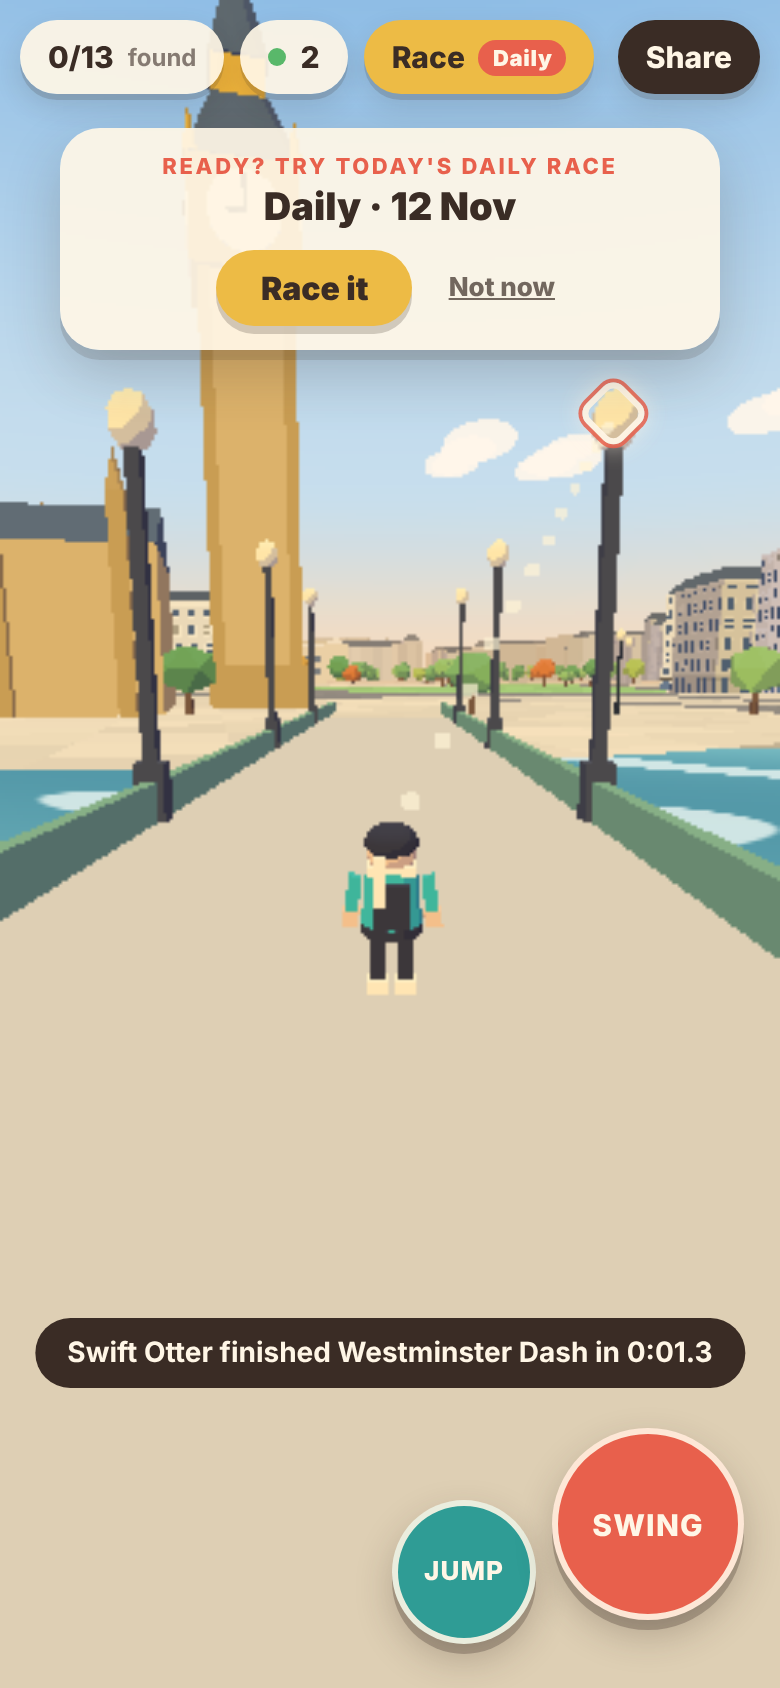
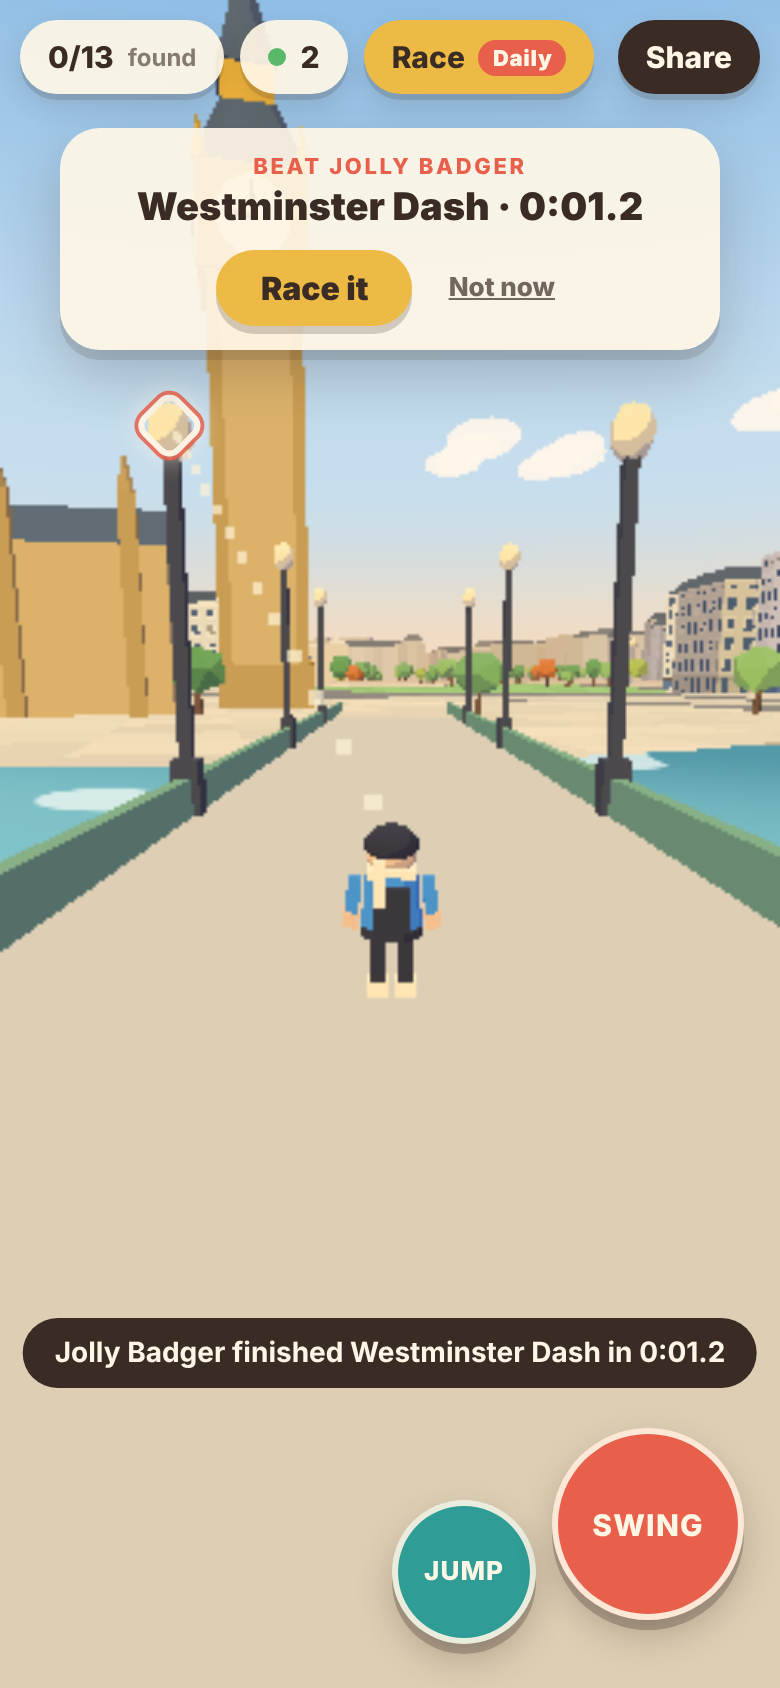
Multiplayer: a friend's race result offers the same route in one tap
Claude-Session: https://claude.ai/code/session_01Fz3Rh1tVJ5Z9fFevj4TSXJ

diff --git a/e2e/game.spec.ts b/e2e/game.spec.ts
@@ -208,6 +208,10 @@ test('multiplayer: two browsers on the same room link see each other move', asyn
 
   // A races; when A finishes, B is told A's time.
   if (await a.locator('#tut-skip').isVisible()) await a.locator('#tut-skip').tap();
+  // B is idle (no tutorial, no other offer up), so B will be offered A's route
+  if (await b.locator('#tut-skip').isVisible()) await b.locator('#tut-skip').tap();
+  if (await b.locator('#next-up').isVisible()) await b.locator('#next-no').tap();
+  await expect(b.locator('#next-up')).toBeHidden();
   await a.locator('#race-btn').tap();
   await a.locator('#routes button', { hasText: 'Westminster Dash' }).tap();
   await expect.poll(async () => (await a.evaluate(() => window.__citywalk.race)).state, { timeout: 10_000 }).toBe('running');
@@ -219,8 +223,17 @@ test('multiplayer: two browsers on the same room link see each other move', asyn
   await expect.poll(async () => (await b.evaluate(() => window.__citywalk.roomResults)).length, { timeout: 5000 }).toBe(1);
   expect((await b.evaluate(() => window.__citywalk.roomResults))[0]).toMatch(/ finished Westminster Dash in \d+:\d\d\.\d$/);
   await expect(b.locator('#toast')).toContainText('finished Westminster Dash');
+  // ...and offered the same route in one tap ("Race it"); A, who finished, gets no such offer
+  await expect(b.locator('#next-up')).toBeVisible();
+  await expect(b.locator('#next-kicker')).toContainText('Beat ');
+  await expect(b.locator('#next-route')).toContainText(/Westminster Dash · \d+:\d\d\.\d/);
   await b.screenshot({ path: 'screenshots/multiplayer-result-b.png' });
   expect(await a.evaluate(() => window.__citywalk.roomResults)).toEqual([]); // your own finish is not echoed back
+  await expect(a.locator('#next-up')).toBeHidden();
+  await b.locator('#next-go').tap();
+  await expect(b.locator('#next-up')).toBeHidden();
+  await expect.poll(async () => (await b.evaluate(() => window.__citywalk.race)).route, { timeout: 5000 }).toBe('westminster');
+  expect(['countdown', 'running']).toContain((await b.evaluate(() => window.__citywalk.race)).state);
 
   expect(errA).toEqual([]);
   expect(errB).toEqual([]);

diff --git a/src/main.ts b/src/main.ts
@@ -11,7 +11,7 @@ import { buildWorld } from './world/city';
 import { LANDMARKS, SPAWN, type Landmark } from './world/data';
 import { challengeFromHash, decodeChallenge, encodeChallenge, rivalLine, type Challenge } from './challenge';
 import { GhostRecorder, decodeGhost, encodeGhost, ghostPose, liveDelta, splitDelta, type Ghost, type GhostPose } from './ghost';
-import { ROUTES, Race, dailyRoute, formatTime, raceShareText, roomResultText, routeName, type Route } from './race';
+import { ROUTES, Race, dailyRoute, formatTime, raceShareText, roomResultText, routeById, type Route } from './race';
 import { WATER_Y, groundHeight } from './world/river';
 import { parsePortal, portalRules } from './portal';
 import { AimLine } from './render/aimline';
@@ -315,11 +315,14 @@ const net = new Net({
     remotes.get(peer.id)?.avatar.setName(peer.name);
   },
   onRaceResult(peer, r) {
-    const name = routeName(r.route);
-    if (!name) return;
-    const text = roomResultText(peer.name, name, r.t);
+    const route = routeById(r.route);
+    if (!route) return;
+    const text = roomResultText(peer.name, route.name, r.t);
     roomResults.push(text);
     ui.toast(text, CONFIG.net.roomResultToast * 1000);
+    // offer the same route in one tap, but never interrupt a race, the tutorial or another offer
+    if (race.active || ui.tutorialActive || ui.nextUpShowing) return;
+    ui.showNextUp(`${route.name} · ${formatTime(r.t)}`, () => startRace(route), `Beat ${peer.name}`, undefined, CONFIG.net.raceItCard);
   },
 });
 // friends' race results seen this visit (for tests)

diff --git a/tests/net.test.ts b/tests/net.test.ts
@@ -37,7 +37,7 @@ vi.mock('trystero', () => ({
 }));
 
 const { Net, isRemoteCloseLog, remoteCloseCount, parseRaceResult } = await import('../src/net');
-const { routeName, roomResultText, dailyRoute } = await import('../src/race');
+const { routeName, routeById, roomResultText, dailyRoute } = await import('../src/race');
 
 function setup() {
   const onLeave = vi.fn();
@@ -227,6 +227,15 @@ describe('Net: friends see your race results', () => {
     expect(routeName('nowhere')).toBeNull();
     expect(routeName('daily-2026-99-99')).toBeNull();
     expect(roomResultText('Sam', 'Westminster Dash', 83.4)).toBe('Sam finished Westminster Dash in 1:23.4');
+  });
+
+  it('rebuilds a friend\'s route locally so it can be raced ("Race it")', () => {
+    expect(routeById('westminster')?.name).toBe('Westminster Dash');
+    expect(routeById('daily-2026-11-11')).toEqual(dailyRoute('2026-11-11')); // same stops and start as the friend raced
+    expect(routeById('daily-2026-11-11')?.id).toBe('daily-2026-11-11');
+    expect(routeById('nowhere')).toBeNull();
+    expect(routeById('daily-2026-99-99')).toBeNull();
+    expect(routeById('daily-x')).toBeNull();
   });
 
   it('sends a finished race to the room, and passes on only valid results from a known peer', () => {

diff --git a/src/ui.ts b/src/ui.ts
@@ -384,7 +384,8 @@ export class UI {
    * `kicker` marks it as a challenge, which waits for an answer instead of hiding itself;
    * `onNo` runs if the player declines.
    */
-  showNextUp(routeName: string, onRace: () => void, kicker?: string, onNo?: () => void): void {
+  /** Offer a race. Without a kicker it is the daily suggestion and hides by itself; with one it stays until answered, unless `hideAfter` (seconds) is given. */
+  showNextUp(routeName: string, onRace: () => void, kicker?: string, onNo?: () => void, hideAfter?: number): void {
     $('next-kicker').textContent = kicker ?? 'Ready? Try today\'s daily race';
     $('next-route').textContent = routeName;
     $('next-no').onclick = () => {
@@ -397,7 +398,12 @@ export class UI {
     };
     $('next-up').hidden = false;
     clearTimeout(this.nextTimer);
-    if (!kicker) this.nextTimer = window.setTimeout(() => this.hideNextUp(), CONFIG.firstRun.suggestSeconds * 1000);
+    const secs = hideAfter ?? (kicker ? 0 : CONFIG.firstRun.suggestSeconds);
+    if (secs > 0) this.nextTimer = window.setTimeout(() => this.hideNextUp(), secs * 1000);
+  }
+
+  get nextUpShowing(): boolean {
+    return !$('next-up').hidden;
   }
 
   hideNextUp(): void {

diff --git a/src/race.ts b/src/race.ts
@@ -169,13 +169,18 @@ export function raceShareText(routeName: string, time: string, url = '', withGho
   return url ? `${text} ${url}` : text;
 }
 
-/** The display name of a route id (a fixed route, or any day's daily); null if it is not one we know. */
-export function routeName(id: string): string | null {
+/** The route with this id (a fixed route, or any day's daily, rebuilt locally); null if it is not one we know. */
+export function routeById(id: string): Route | null {
   const fixed = ROUTES.find((r) => r.id === id);
-  if (fixed) return fixed.name;
+  if (fixed) return fixed;
   const m = /^daily-(\d{4}-\d{2}-\d{2})$/.exec(id);
   if (!m || Number.isNaN(Date.parse(m[1]))) return null;
-  return dailyRoute(m[1]).name;
+  return dailyRoute(m[1]);
+}
+
+/** The display name of a route id (a fixed route, or any day's daily); null if it is not one we know. */
+export function routeName(id: string): string | null {
+  return routeById(id)?.name ?? null;
 }
 
 /** The toast shown when a friend in your room finishes a race. */

diff --git a/src/config.ts b/src/config.ts
@@ -147,6 +147,7 @@ export const CONFIG = {
     maxPlayers: 8,
     maxRaceSeconds: 3600, // race results from friends outside (0, this) are ignored
     roomResultToast: 3.5, // seconds a friend's race result stays on screen
+    raceItCard: 8, // seconds the "Race it" card for a friend's route stays up (only shown when you are not racing)
     helloTimeout: 12, // seconds a joined peer may stay silent before its connection is reset (the library's own handshake gives up at 10)
   },
 

diff --git a/DAILY_PROGRESS.md b/DAILY_PROGRESS.md
@@ -2,6 +2,34 @@
 
 Verified work only. Newest first.
 
+## 2026-11-13
+
+**Implemented**
+- "Race it" for a friend's result: when someone in your room finishes a race and you are not
+  racing, in the tutorial or already looking at another offer, a card appears ("Beat Jolly Badger
+  · Westminster Dash · 0:01.2") with Race it / Not now; Race it starts that route at its start
+  line. It hides itself after 8 s (`CONFIG.net.raceItCard`). The result toast is unchanged, and
+  mid-race you get only the toast. The route is rebuilt locally from its id (a fixed route, or any
+  day's daily), so a peer still cannot put its own text or route on your screen.
+- Second slice of the "multiplayer race" item; chosen because the rest of Now waits on the owner.
+
+**Verified**
+- Build: 0 TS errors. Unit: 92 passed (1 new in `tests/net.test.ts`: routes rebuilt by id, unknown
+  or malformed ids refused). Browser: the two-player test now checks B gets the card after A
+  finishes, A does not, and B's tap starts Westminster Dash (screenshot
+  `screenshots/multiplayer-result-b.png`).
+- Full browser run: 9 of 10 passed on the first run; the two-player test timed out earlier in the
+  test, at the existing "find each other again after an abrupt drop" step (45 s), before the new
+  code is reached. That test then passed 2 of 2 repeats. This is the known slow-join issue
+  (RELEASE.md), now also seen once on this build machine.
+- CrazyGames package rebuilt: scanner clean.
+- Not verified: whether players use the card; behaviour over the real internet or on phones.
+
+**Money earned:** £0 (not yet published on a paying channel).
+
+**Next task:** slow multiplayer re-joins after an abrupt drop (seen again today); owner playtest
+fixes if any.
+
 ## 2026-11-12
 
 **Implemented**

diff --git a/ROADMAP.md b/ROADMAP.md
@@ -24,8 +24,9 @@ Ordered by impact on getting real players and the first revenue.
 ## Next
 
 - Multiplayer race: everyone in a room races the same route. First slice done 2026-11-12:
-  friends in a room see a toast with each other's race times. Next slice: a "Race it" button on
-  that toast so a friend can start the same route in one tap.
+  friends in a room see a toast with each other's race times. Second slice done 2026-11-13: a
+  "Race it" card offers the same route in one tap (only when you are not racing). Next slice,
+  if players use it: show the friend's time as a target during that race.
 - Measure real-phone frame rate (ask testers), tune quality presets.
 - Swing feel: anchor preview line and on-target reticle (done 2026-11-08); rope tension hum
   (done 2026-11-09, needs a listen); landing crouch/roll (done 2026-11-10, needs a look).

diff --git a/README.md b/README.md
@@ -32,7 +32,7 @@ building, character, shader and sound is generated in code.
   personal bests saved on your device.
 - **Share** opens the native share sheet (or copies the link). Anyone opening
   it joins your room, up to 8 players. When someone in the room finishes a race, everyone
-  else sees their time.
+  else sees their time, with a "Race it" button to run the same route.
 
 ## Run it
 
